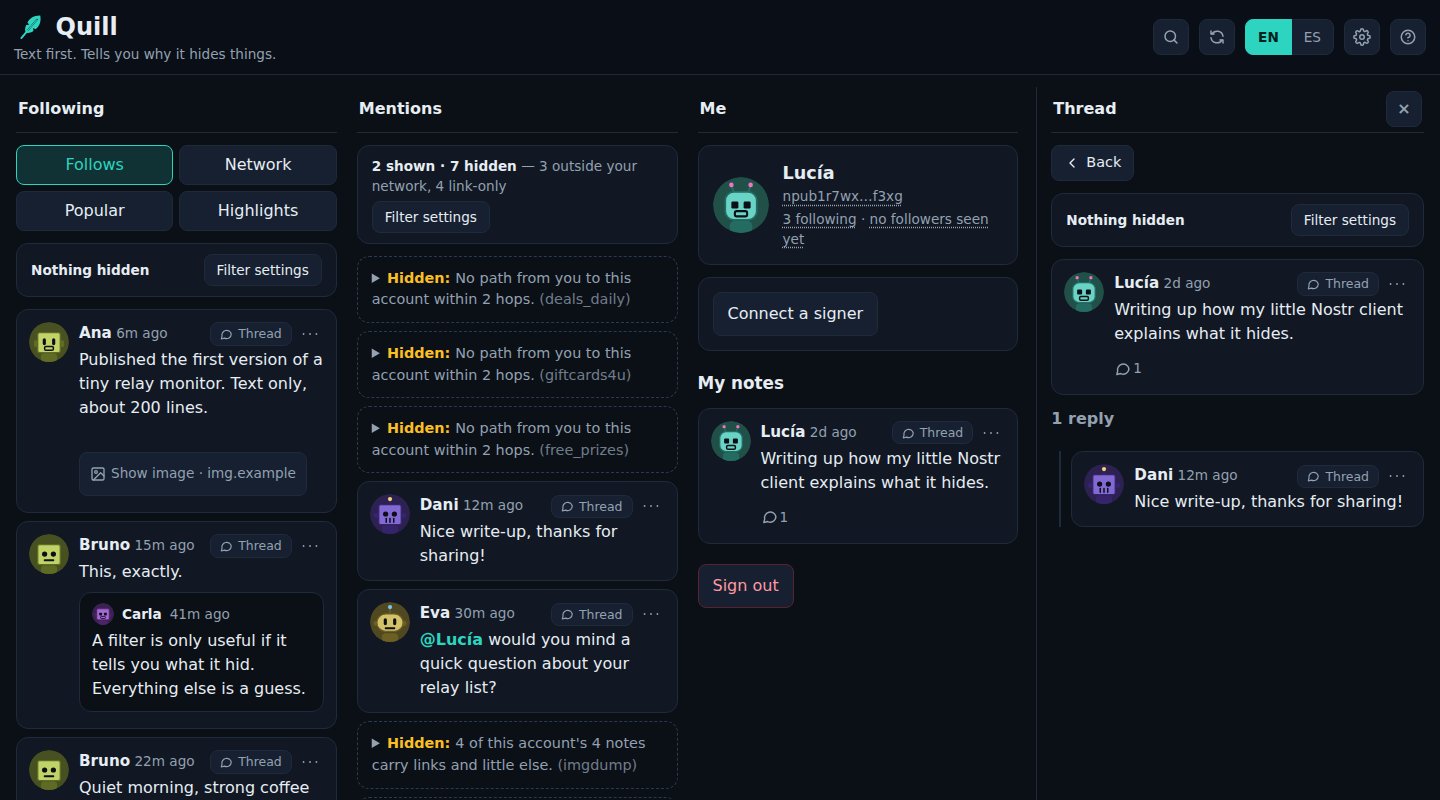
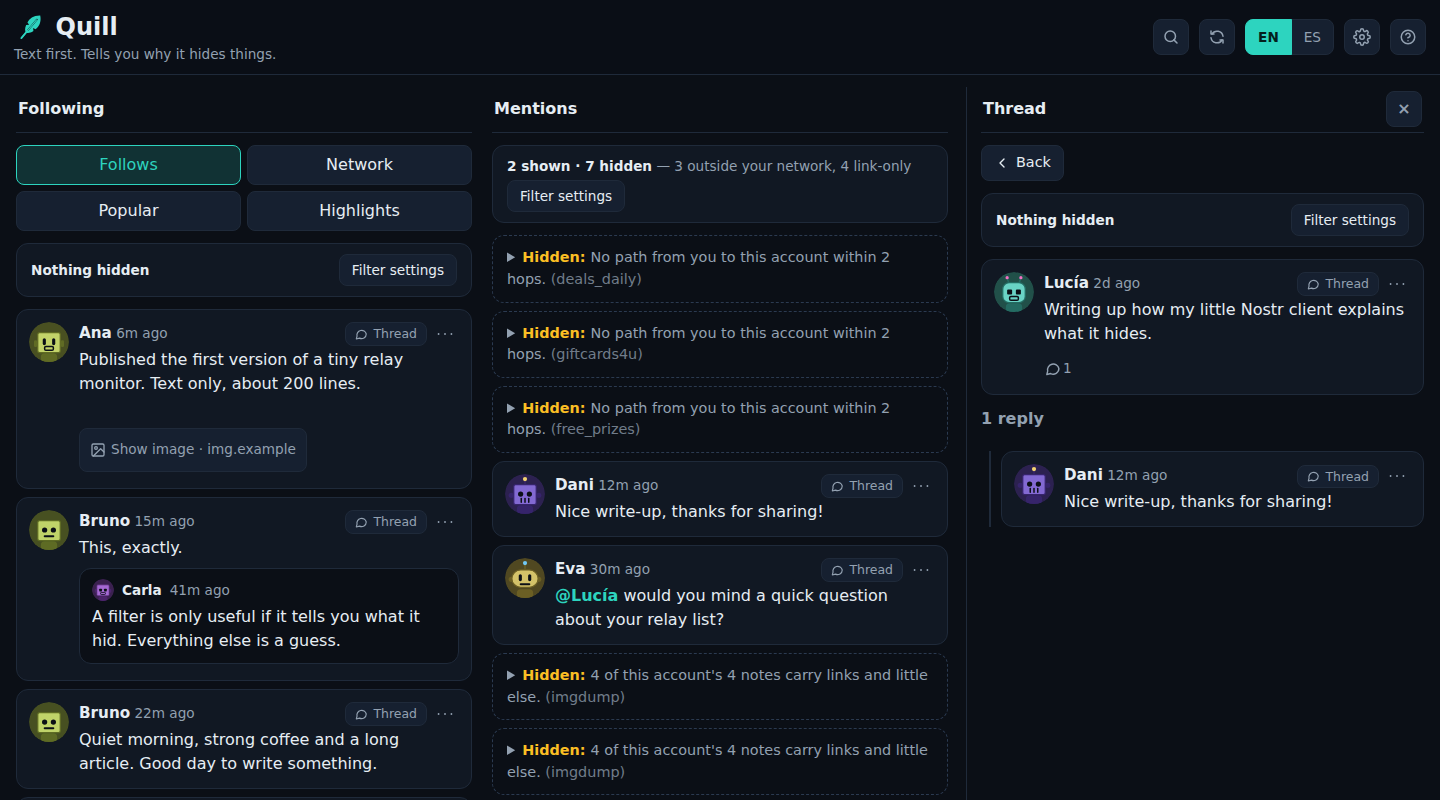
Wide screen: never a fourth column. A thread, an account, a list, an article, saved notes or the Pick of the day open in the place of Me, as the search does (× brings Me back); help, READMEs and screenshots updated
Claude-Session: https://claude.ai/code/session_015hU65x1mk8yRSFgESuNvGb

diff --git a/src/ui/app.ts b/src/ui/app.ts
@@ -673,9 +673,6 @@ export function startApp(root: HTMLElement, deps: Deps): void {
     if (!(await ensureSession()) || !session) return
     if (paneJobs === 0) status = null // reading the account is done; what turns the button now is the columns loading
     const route = parseRoute(deps.location.hash)
-    // a note opened from the Pick of the day stays in that column (instead of opening a fourth one); any other page ends that
-    if (route.name === 'note' && (lastWideRoute === 'pick' || pickSlot)) pickSlot = true; else if (route.name !== 'note') pickSlot = false
-    lastWideRoute = route.name
     const jobs: Promise<void>[] = [] // Settings and Help too: a change made there (avatars, filter, relays) must already be in the columns when you go back
     if (scope === 'all') for (const id of ['following', 'mentions', 'me'] as const) jobs.push(loadPane(panes[id], { name: id }))
     if (route.name === 'note' || route.name === 'user' || route.name === 'people' || route.name === 'article' || route.name === 'saved' || route.name === 'pick') {
@@ -878,7 +875,6 @@ if (!content || !live() || (!force && scrolled() > 200)) return false
 
   // the Pick of the day: read once per visit (and again after a refresh); the card in Highlights opens it
   let pickCache: { at: number; pick: DailyPick | null } | null = null
-  let pickSlot = false, lastWideRoute = '' // wide screen: the note on screen was opened from the Pick of the day (it shows in that column)
   async function pickOfDay(): Promise<DailyPick | null> {
     if (!deps.pickSource) return null
     const now = deps.nowMs?.() ?? Date.now()
@@ -1356,17 +1352,16 @@ if (!content || !live() || (!force && scrolled() > 200)) return false
       h('section', { class: 'col', 'data-col': id }, h('h2', { class: 'col-title' }, h('span', {}, title), ...extra), id === 'following' ? lateButton('following') : null, ...nodes)
     const write = signer?.state === 'connected' ? h('button', { type: 'button', class: 'primary write', onClick: startNote }, icon('feather', 16), t(lang, 'newNote').replace(/…$/, '')) : null
     const count = badge > 0 ? h('span', { class: 'badge', 'aria-label': `${badge}` }, badge > 9 ? '9+' : String(badge)) : null
-    const inPickCol = route.name === 'pick' || (route.name === 'note' && pickSlot)
-    const detailOpen = !inPickCol && (route.name === 'note' || route.name === 'user' || route.name === 'people' || route.name === 'article' || route.name === 'saved')
+    // never a fourth column (it squeezed the others too much): whatever opens (a thread, an account, a list, the Pick of the day) takes the place of Me, as the search does
+    const inSlot = route.name === 'pick' || route.name === 'note' || route.name === 'user' || route.name === 'people' || route.name === 'article' || route.name === 'saved'
     const detailTitle = route.name === 'pick' ? t(lang, 'pickShort') : route.name === 'saved' ? t(lang, 'savedShort') : route.name === 'article' ? t(lang, 'article') : route.name === 'note' ? t(lang, 'thread') : route.name === 'people' ? t(lang, route.list === 'following' ? 'peopleFollowing' : 'peopleFollowers') : t(lang, 'account')
-    return h('div', { class: detailOpen ? 'cols with-detail' : 'cols' },
+    return h('div', { class: 'cols' },
       column('following', t(lang, 'following'), [panes.following.body], [write]),
       column('mentions', t(lang, 'mentions'), [panes.mentions.body], [count]),
-      // the Pick of the day takes the place of Me, as the search does (its content is loaded like the panel on the right)
-      inPickCol ? h('section', { class: 'col pick-col', 'data-col': 'detail' }, h('h2', { class: 'col-title' }, h('span', {}, t(lang, route.name === 'note' ? 'thread' : 'pickShort')), h('button', { type: 'button', class: 'icon close', 'aria-label': t(lang, 'dismiss'), title: t(lang, 'dismiss'), onClick: () => deps.setHash('') }, '×')), panes.detail.body)
+      // the panel that opens (a thread, an account, a list, the Pick of the day) takes the place of Me, as the search does
+      inSlot ? h('section', { class: 'col detail', 'data-col': 'detail' }, h('h2', { class: 'col-title' }, h('span', {}, route.name === 'pick' ? t(lang, 'pickShort') : detailTitle), h('button', { type: 'button', class: 'icon close', 'aria-label': t(lang, 'dismiss'), title: t(lang, 'dismiss'), onClick: () => deps.setHash('') }, '×')), panes.detail.body)
       : route.name === 'search' ? h('section', { class: 'col search-col' }, h('h2', { class: 'col-title' }, h('span', {}, t(lang, 'search')), h('button', { type: 'button', class: 'icon close', 'aria-label': t(lang, 'dismiss'), title: t(lang, 'dismiss'), onClick: () => deps.setHash('') }, '×')), searchPage()) // the search takes the place of Me: four columns would squeeze the others
-      : column('me', t(lang, 'me'), [accountCard(), installHint(deps.env ?? { ios: false, standalone: true }) ? h('section', { class: 'card install' }, h('h2', {}, t(lang, 'installTitle')), h('p', { class: 'meta' }, t(lang, 'installHint'))) : null, signArea, h('h2', { class: 'section' }, t(lang, 'myNotes')), panes.me.body, h('div', { class: 'foot' }, signOut)]),
-      detailOpen ? h('section', { class: 'col detail', 'data-col': 'detail' }, h('h2', { class: 'col-title' }, h('span', {}, detailTitle), h('button', { type: 'button', class: 'icon close', 'aria-label': t(lang, 'dismiss'), title: t(lang, 'dismiss'), onClick: () => deps.setHash('') }, '×')), lateButton('detail'), panes.detail.body) : null)
+      : column('me', t(lang, 'me'), [accountCard(), installHint(deps.env ?? { ios: false, standalone: true }) ? h('section', { class: 'card install' }, h('h2', {}, t(lang, 'installTitle')), h('p', { class: 'meta' }, t(lang, 'installHint'))) : null, signArea, h('h2', { class: 'section' }, t(lang, 'myNotes')), panes.me.body, h('div', { class: 'foot' }, signOut)]))
   }
 
   function draw(): void {

diff --git a/src/ui/help-text.ts b/src/ui/help-text.ts
@@ -12,7 +12,7 @@ const en: HelpSection[] = [
 • Nothing is hidden silently: every hidden note says which rule hid it, and one tap shows it.` },
   { id: 'read', title: 'Reading', body: `Sign in with your npub. There are three tabs:
 
-• On a wide screen (a computer, about 1100 px or more) Following, Mentions and Me are shown side by side, each scrolling on its own, and a thread, an account or a list opens in a panel on the right (× closes it). Settings and Help take the whole page. On a phone it is one column with the tabs at the bottom.
+• On a wide screen (a computer, about 1100 px or more) Following, Mentions and Me are shown side by side, each scrolling on its own, and a thread, an account, a list or the Pick of the day opens in the place of Me, never in a fourth column (× closes it and Me comes back). Settings and Help take the whole page. On a phone it is one column with the tabs at the bottom.
 • Following: notes of the people you follow (not their replies) and what they repost, marked “Ana reposted”. A repost does not vouch for the note: the filter judges it by its own author. You can switch reposts off in Settings.
 • At the top of Following a switch chooses **Follows** (the people you follow) or **Network**: the notes of the people they follow, each marked “Followed by Ana and 3 more” so you can see why it is there. Network leaves out the “outside your network” rule (that is what it is showing you); every other rule applies. It looks at the accounts followed by the most of your follows, up to 200.
 • Topics you care about (Settings, one per line, kept on this device): a note that talks about one gets a “For you: …” mark and an accent edge, in every feed. Nothing is moved or hidden, and there is no AI: a topic matches where a word starts with it (“relay” finds “relays”), accents and capitals aside, and a #tag of the note counts too; mentions, quotes and web addresses do not.
@@ -97,7 +97,7 @@ const es: HelpSection[] = [
 • Nada se oculta en silencio: cada nota oculta dice qué regla la ocultó, y con un toque se muestra.` },
   { id: 'read', title: 'Leer', body: `Entra con tu npub. Hay tres pestañas:
 
-• En una pantalla ancha (un ordenador, unos 1100 px o más) Siguiendo, Menciones y Yo se muestran una al lado de otra, cada una con su propio desplazamiento, y un hilo, una cuenta o una lista se abre en un panel a la derecha (× lo cierra). Ajustes y Ayuda ocupan toda la página. En un móvil es una sola columna con las pestañas abajo.
+• En una pantalla ancha (un ordenador, unos 1100 px o más) Siguiendo, Menciones y Yo se muestran una al lado de otra, cada una con su propio desplazamiento, y un hilo, una cuenta, una lista o la Selección del día se abre en el sitio de Yo, nunca en una cuarta columna (× lo cierra y vuelve Yo). Ajustes y Ayuda ocupan toda la página. En un móvil es una sola columna con las pestañas abajo.
 • Siguiendo: notas de la gente que sigues (sin sus respuestas) y lo que comparten, marcado «Ana compartió». Un repost no avala la nota: el filtro la juzga por su propio autor. Puedes desactivar los reposts en Ajustes.
 • Arriba de Siguiendo, un interruptor elige **Seguidos** (la gente que sigues) o **Red**: las notas de la gente a la que ellos siguen, cada una marcada «Seguida por Ana y 3 más» para que veas por qué está ahí. Red deja fuera la regla «fuera de tu red» (es justo lo que enseña); el resto de reglas se aplican. Mira las cuentas seguidas por más de tus seguidos, hasta 200.
 • Temas que te interesan (Ajustes, uno por línea, guardados en este dispositivo): una nota que habla de uno lleva la marca «Te interesa: …» y un borde de color, en todos los feeds. No se mueve ni se oculta nada, y no hay IA: un tema coincide donde una palabra empieza por él («relé» encuentra «relés»), sin importar acentos ni mayúsculas, y también cuenta una #etiqueta de la nota; las menciones, las citas y las direcciones web no.

diff --git a/src/ui/app.test.ts b/src/ui/app.test.ts
@@ -808,16 +808,17 @@ describe('wide screens: three columns and a panel', () => {
     await tick(700); expect(col(a, 'following').textContent).toContain('a post from my friend'); expect(spinning()).toBe(false)
     await a.go('#/me/following'); await tick(400); expect(spinning()).toBe(false) // the panel loaded too
   })
-  it('a thread opens in a panel on the right and the columns stay exactly as they were (not loaded again)', async () => {
+  it('a thread opens in the place of Me (never a fourth column) and the other columns stay exactly as they were (not loaded again)', async () => {
     const post = wideWorld().find((e) => e.content === 'a post from my friend')!
     const a = boot({ events: wideWorld(), stored: { me }, wide: { value: true } }); await tick(250)
     const first = col(a, 'following').querySelector('article.note')!; const calls = a.calls.n
     await a.go('#/note/' + post.id); await tick(150)
-    expect(titles(a)).toEqual(['Following', 'Mentions', 'Me', 'Thread']); expect(col(a, 'detail').textContent).toContain('a post from my friend')
+    expect(titles(a)).toEqual(['Following', 'Mentions', 'Thread']); expect(col(a, 'detail').textContent).toContain('a post from my friend')
     expect(col(a, 'following').querySelector('article.note')).toBe(first) // the very same card: nothing was rebuilt
     expect(a.calls.n - calls).toBeLessThan(8) // only the thread was asked for
     ;(col(a, 'detail').querySelector('button.close') as HTMLElement).click(); await tick(60)
     expect(a.root.querySelector('.col.detail')).toBeNull(); expect(col(a, 'following').querySelector('article.note')).toBe(first)
+    expect(titles(a)).toEqual(['Following', 'Mentions', 'Me']) // Me is back
   })
   it('an account and the lists open in the panel too; Settings and Help take the whole page', async () => {
     const a = boot({ events: wideWorld(), stored: { me }, wide: { value: true } }); await tick(250)

diff --git a/src/style.css b/src/style.css
@@ -276,7 +276,7 @@ button.icon.spinning svg { animation: spin .9s linear infinite }
 #app.wide { --col: 1760px }
 main.view.wide { display: block; overflow: hidden; padding: 12px 14px 0; scrollbar-gutter: auto }
 .cols { height: 100%; max-width: var(--col); margin: 0 auto; display: grid; grid-template-columns: repeat(3, minmax(0, 1fr)); gap: 16px }
-.cols.with-detail { grid-template-columns: repeat(3, minmax(0, 1fr)) minmax(0, 1.2fr) }
+/* (there is never a fourth column: what opens takes the place of Me) */
 .col { min-height: 0; overflow-y: auto; overscroll-behavior: contain; display: grid; gap: 12px; align-content: start; padding: 0 2px 24px }
 .col-title { position: sticky; top: 0; z-index: 3; display: flex; align-items: center; justify-content: space-between; gap: 8px; margin: 0; padding: 0 2px; height: 46px; flex: none; font-size: 1rem; background: var(--bg); border-bottom: 1px solid var(--border) } /* the same height in every column, with or without a button in it */
 .col-title .write { min-height: 32px; padding: 0 12px; display: inline-flex; align-items: center; gap: 6px; font-size: .85rem }

diff --git a/README.es.md b/README.es.md
@@ -8,9 +8,9 @@ En marcha en **<https://quill.hivescope.xyz>**. Pega un `npub` para leer; conect
 
 ![Quill en un móvil: el feed de la gente que sigues, las menciones con lo que el filtro ocultó y por qué, y los ajustes del filtro](docs/screenshot.es.png)
 
-En un ordenador las tres pestañas van una al lado de otra y un hilo, una cuenta o una lista se abre en un panel a la derecha:
+En un ordenador las tres pestañas van una al lado de otra, y un hilo, una cuenta o una lista se abre en el sitio de Yo (nunca en una cuarta columna):
 
-![Quill en un ordenador: Siguiendo, Menciones y Yo en tres columnas, con el hilo de una nota abierto a la derecha](docs/screenshot.es.desktop.png)
+![Quill en un ordenador: Siguiendo y Menciones, con el hilo de una nota abierto en el sitio de Yo](docs/screenshot.es.desktop.png)
 <sub>Capturas con datos de demostración (cuentas inventadas), no personas reales.</sub>
 
 ## Tres promesas
@@ -51,7 +51,7 @@ Principios: la conducta es una prueba, **la falta de datos no lo es** (una clave
 - **Buscar** (el botón de la lupa): al instante y en tu dispositivo, en las notas y nombres que Quill ya ha cargado (una sola #etiqueta pregunta además a tus relés por sus últimas notas); «Buscar en: La red», en Filtros, pregunta a dos relés de búsqueda NIP-50 solo cuando lo eliges, y muestra solo lo que encuentran.
 - **Páginas de cuenta**: toca un nombre, un avatar o una @mención para ver el perfil de esa cuenta (como texto: sus imágenes nunca se cargan), cómo estás conectado con ella, **cuánto la respalda la red** (una puntuación sobre 100 con el motivo de cada punto, la misma que la de nostrclaw) y sus notas y respuestas; con un firmador conectado, **seguir / dejar de seguir** y **silenciar / dejar de silenciar** desde ahí (silenciar está también en los … de cada nota; tu lista de silenciados es pública, y Quill deja el resto, parte privada incluida, como está).
 - **Reaccionar** con un toque; **compartir** (repostear) o **citar** una nota tras una confirmación; lo que ya has reaccionado o respondido queda marcado; **responder** y **escribir una nota** con una pantalla de revisión que muestra el texto exacto, el tipo, las etiquetas y los relés antes de pedirle nada al firmador.
-- **Pantallas anchas**: en un ordenador (unos 1100 px o más) **Siguiendo, Menciones y Yo van una al lado de otra**, cada una con su propio desplazamiento, y un hilo, una cuenta o una lista se abre en un panel a la derecha. En el móvil sigue siendo una sola columna con las pestañas abajo.
+- **Pantallas anchas**: en un ordenador (unos 1100 px o más) **Siguiendo, Menciones y Yo van una al lado de otra**, cada una con su propio desplazamiento, y un hilo, una cuenta, una lista o la Selección del día se abre en el sitio de Yo (nunca en una cuarta columna, que estrechaba las demás; × devuelve Yo). En el móvil sigue siendo una sola columna con las pestañas abajo.
 - **Ayuda**: una página con secciones plegables (el filtro, escribir con Clave, ajustes, instalar), tras el botón ?, en los dos idiomas.
 - **Avatares**: iniciales sobre un color, robots, figuras de píxeles o criaturas de Halloween (calabazas, fantasmas, murciélagos, calaveras, gatos, arañas, brujas), todos dibujados a partir de la clave de la cuenta (no se carga nada).
 - **Ajustes**: tu propia lista de relés (con prueba de conexión; se puede publicar en Nostr como tu lista NIP-65, y se usa como punto de partida en un dispositivo nuevo) y cuatro tamaños de letra, ambos recordados en el dispositivo.

diff --git a/README.md b/README.md
@@ -8,9 +8,9 @@ Live at **<https://quill.hivescope.xyz>**. Paste an `npub` to read; connect a NI
 
 ![Quill on a phone: the feed of the people you follow, the mentions with what the filter hid and why, and the filter settings](docs/screenshot.png)
 
-On a computer the three tabs sit side by side and a thread, an account or a list opens in a panel on the right:
+On a computer the three tabs sit side by side, and a thread, an account or a list opens in the place of Me (never a fourth column):
 
-![Quill on a computer: Following, Mentions and Me in three columns, with the thread of a note open on the right](docs/screenshot.desktop.png)
+![Quill on a computer: Following and Mentions, with the thread of a note open in the place of Me](docs/screenshot.desktop.png)
 <sub>Screenshots with demo data (made-up accounts), not real people.</sub>
 
 ## Three promises
@@ -51,7 +51,7 @@ Principles: behaviour is evidence, **missing data is not** (a key without a prof
 - **Search** (the magnifying-glass button): instant, on your device, in the notes and names Quill has already loaded (a single #tag also asks your own relays for its latest notes); “Search in: The network”, in Filters, asks two NIP-50 search relays only when chosen, and shows only what they found.
 - **Account pages**: tap a name, an avatar or an @mention to see that account's profile (as text: its pictures are never loaded), how you are connected to it, **how much the network vouches for it** (a score out of 100 with the reason for every point, the same as nostrclaw's), and its notes and replies; with a signer connected, **follow / unfollow** and **mute / unmute** from there (muting is also in each note's …; your mute list is public, and Quill keeps the rest of it, private part included, as it is).
 - **React** with one tap; **share** (repost) or **quote** a note after a confirmation; what you already reacted to or replied to is marked; **reply** and **write a note** through a review screen that shows the exact text, kind, tags and relays before anything is asked of your signer.
-- **Wide screens**: on a computer (about 1100 px or more) **Following, Mentions and Me sit side by side**, each scrolling on its own, and a thread, an account or a list opens in a panel on the right. On a phone it stays one column with the tabs at the bottom.
+- **Wide screens**: on a computer (about 1100 px or more) **Following, Mentions and Me sit side by side**, each scrolling on its own, and a thread, an account, a list or the Pick of the day opens in the place of Me (never a fourth column, which squeezed the others; × brings Me back). On a phone it stays one column with the tabs at the bottom.
 - **Help**: a page with folding sections (the filter, writing with Clave, settings, install), behind the ? button, in both languages.
 - **Avatars**: initials on a colour, robots, pixel figures or Halloween creatures (pumpkins, ghosts, bats, skulls, cats, spiders, witches), all drawn from the account's key (nothing is loaded).
 - **Settings**: your own relay list (with a connection test; optionally published on Nostr as your NIP-65 list, and used as the starting point on a new device) and four text sizes, both remembered on the device.
